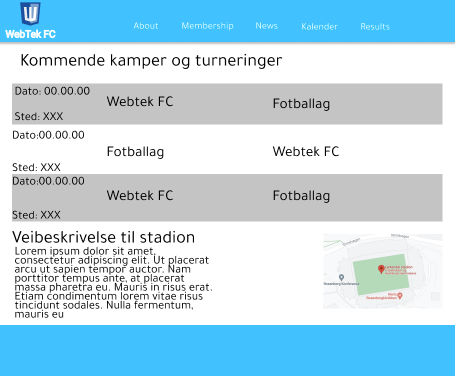
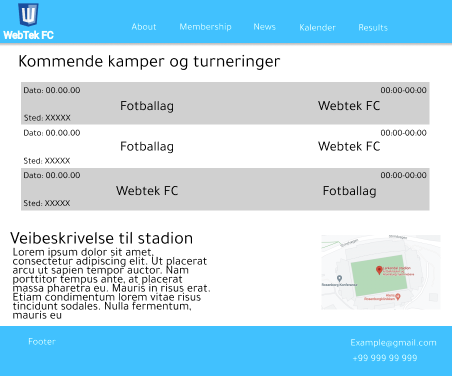
Added text to conten and changed a picture

diff --git a/Documents/indexP2.html b/Documents/indexP2.html
@@ -109,27 +109,49 @@
             <hr>
             <div>
                 <img src="images/index.PNG" alt="">
-                <p>Lorem ipsum dolor sit, amet consectetur adipisicing elit. Laudantium saepe quod nihil necessitatibus illo doloremque praesentium debitis ipsa quos nemo eveniet sequi a harum, recusandae dolore consequatur non, corporis quidem.</p>
+                <p>The Index file is the first page that greets the user. The index page will function as a introduction to the rest of the webside.It shares the same nav 
+                    bar as all the other pages. Right under the nav bar is a large image spanning the whole page. The image is a slideshow and you can change pictures with the arrows. An 
+                    important functionality for the website is to recruit more members and therefore, in front of the slideshow, is a button that leads directly to the “membership” page. 
+                    A new user might want to know more about the club and so right under is some quick info where you can click a button and be redirected to the “about” page. The 
+                    buttons have a blue color that stands out from the rest of the page so they will be easier to locate. Lastly is the club's sponsors and then the nav bar. 
+                </p>
             </div>
             <div>
                 <img src="images/about.PNG" alt="">
-                <p></p>
+                <p>The "About" page will inform the user about the history of the football club. That is, information about when and how the club was 
+                    established, remarkable players and matches, and about the current team. The purpose of this page is to provide relevant and interesting 
+                    information, which is easy to read and clear. This is the page that users that are not yet a member of the club will engage with first 
+                    the most. This page will also contain a picture of the team. This image will be at the top right of the page.
+                </p>
             </div>
             <div>
                 <img src="images/membership.PNG" alt="">
-                <p></p>
+                <p>This page will contain two forms where the user can either join the football team or sign up as a volunteer. The site will also contain information 
+                    about what it means to be part of the team, and what work tasks a volunteer will have. In addition, the page will contain an image of the club in 
+                    the upper right corner.
+                </p>
             </div>
             <div>
                 <img src="images/news.PNG" alt="">
-                <p></p>
+                <p>This page will contain various news articles in a grid. Each article will contain an image that is relevant to the news, and the text itself will be 
+                    presented in a blue text box. The purpose of this page is to keep the user updated on various news related to the football team. This page will be 
+                    used by potential members to see what is going on in the club currently, but users that are already members can use it to catch up on news regarding the club.  
+                </p>
             </div>
             <div>
                 <img src="images/kalender.PNG" alt="">
-                <p></p>
+                <p>This page will contain an overview of upcoming matches and tournaments. These will be presented in their own text box, with the date, place, and the 
+                    names of the football teams that will play against each other included. The style of the owerview is shared with the style for results for ease of 
+                    use and readability. Furthermore, the page will contain directions to the stadium and a map showing the stadium. The map will be in the lower right 
+                    corner. In addition to members of the club, this page is also useful for users that just want to watch the matches like parents or friends of members.
+                </p>
             </div>
             <div>
                 <img src="images/results.PNG" alt="">
-                <p></p>
+                <p>The "Results" page will contain an overview of results from previous matches. The layout will be similar to the layout of the overview of upcoming 
+                    matches and tournaments, with information about date and time, place, team, and result. Here users can see how the team is doing and where the 
+                    matches usually take place.
+                </p>
             </div>
         </section>
         <section>
